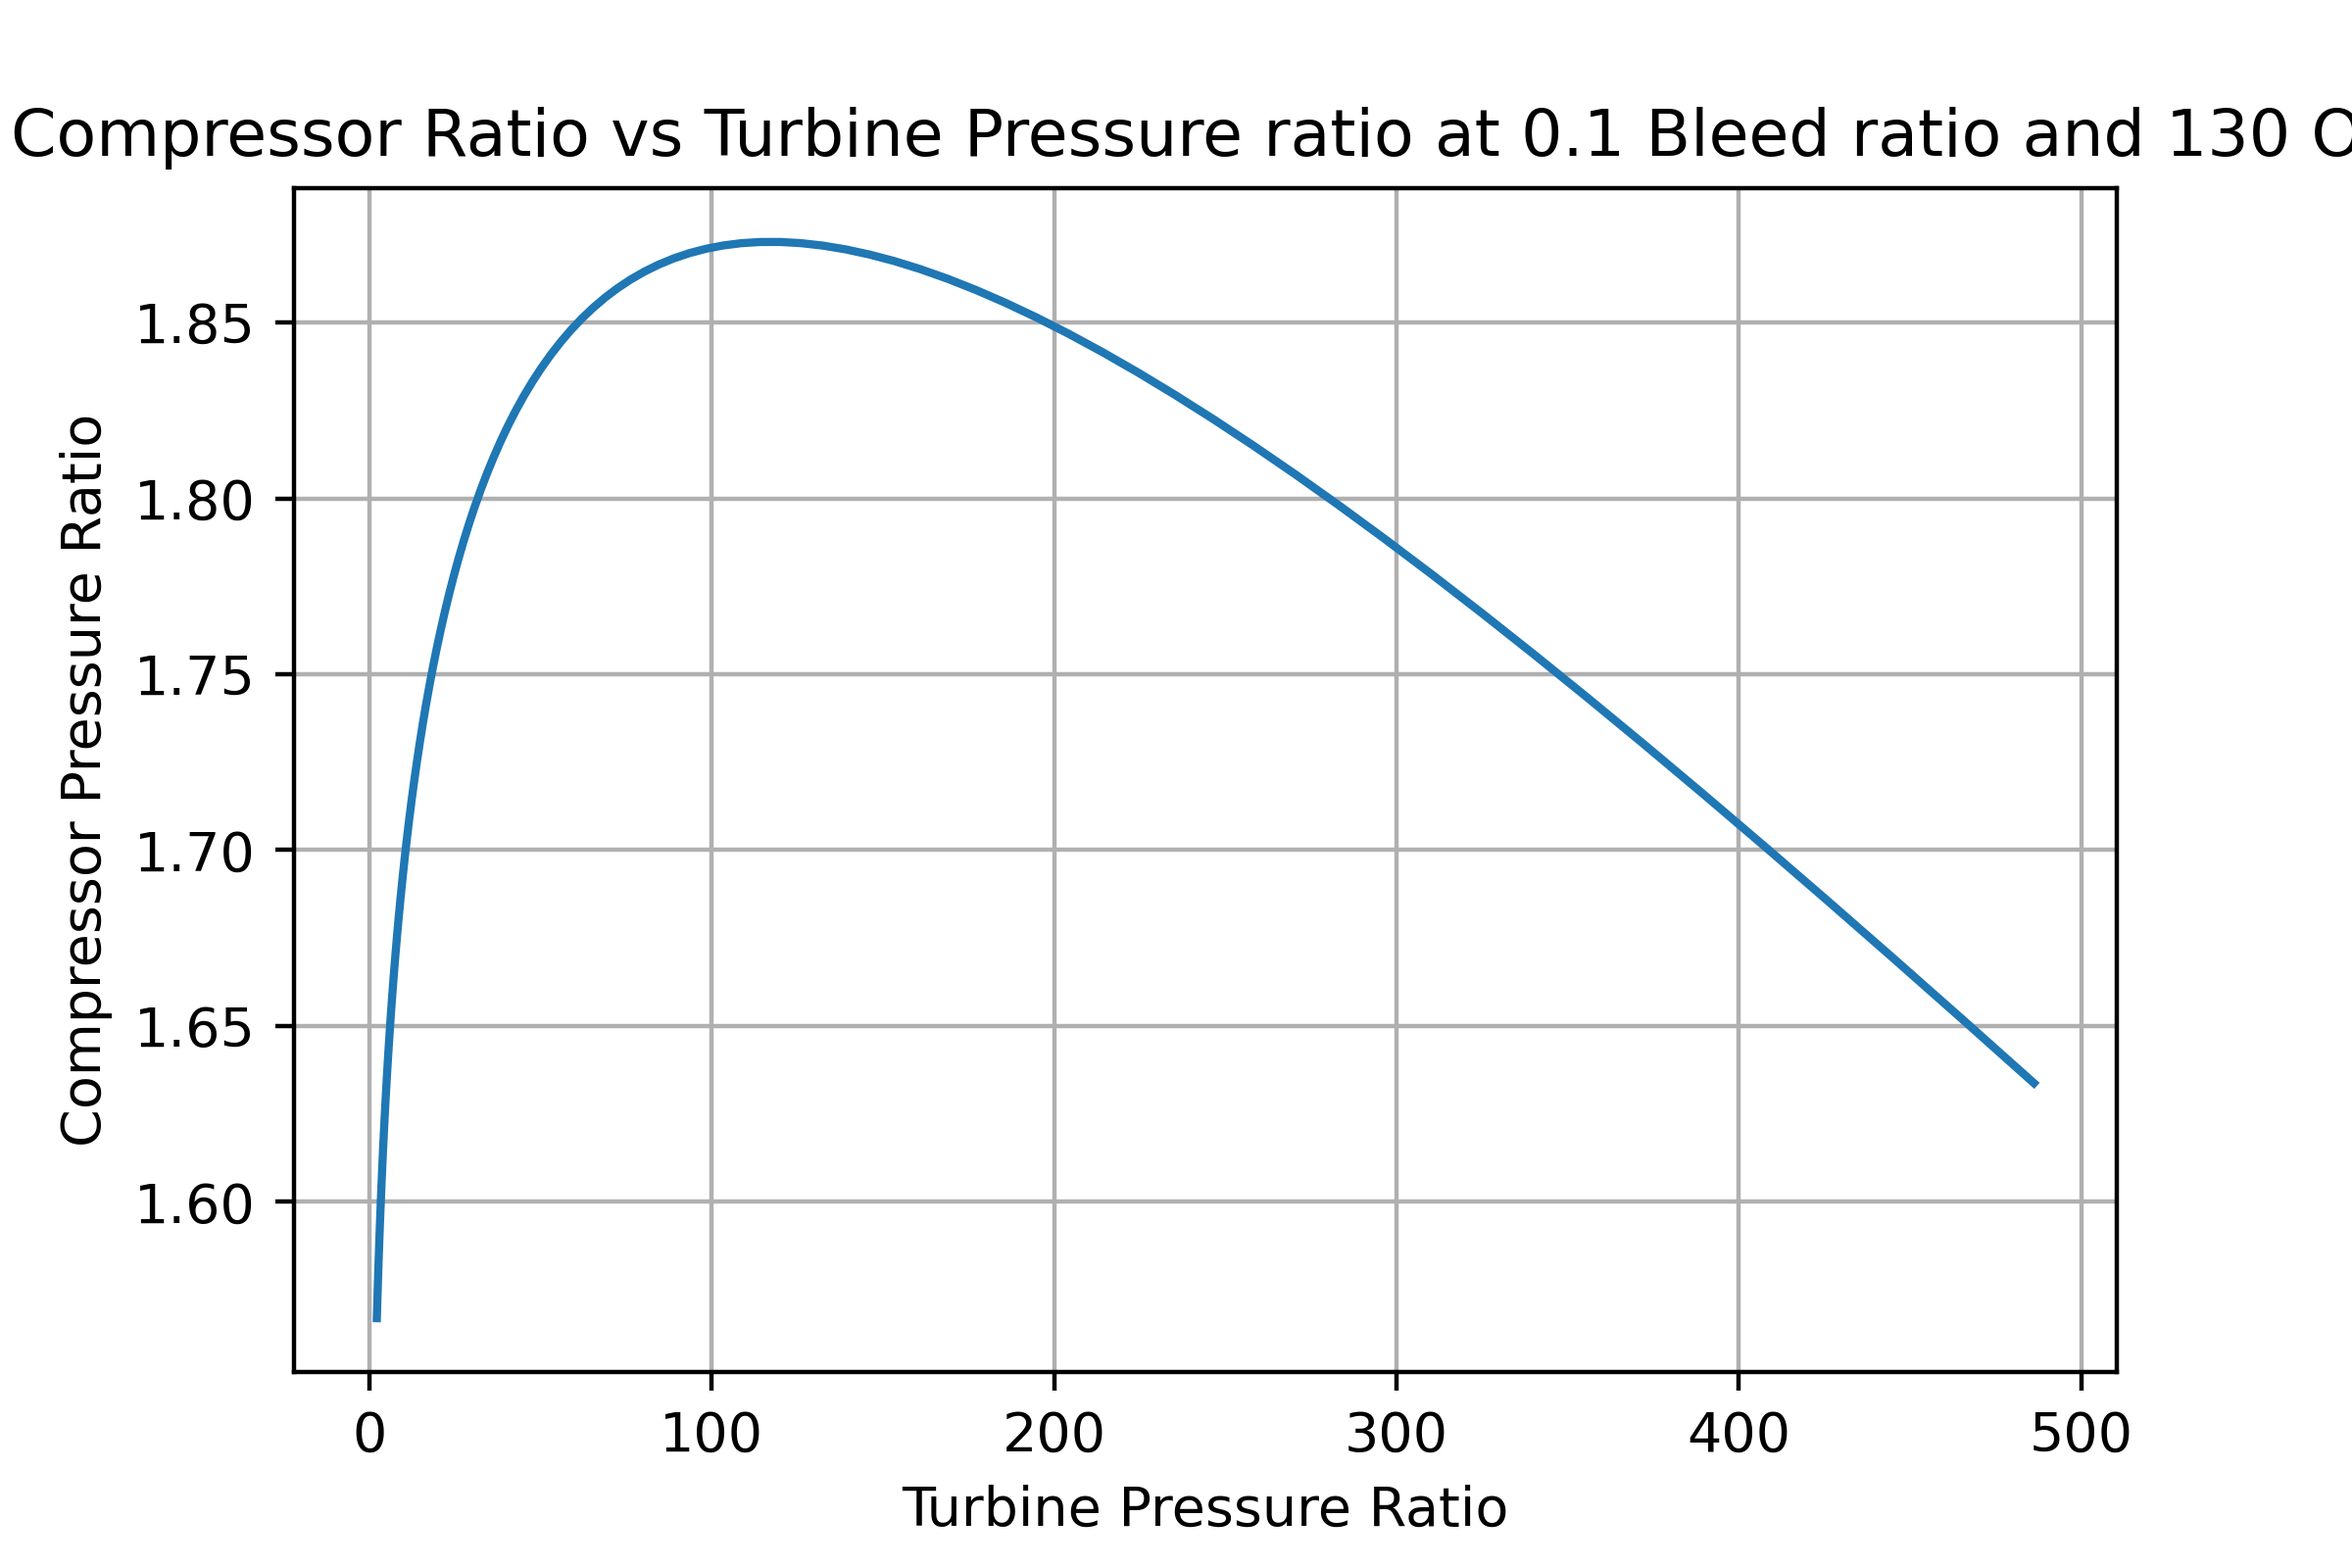
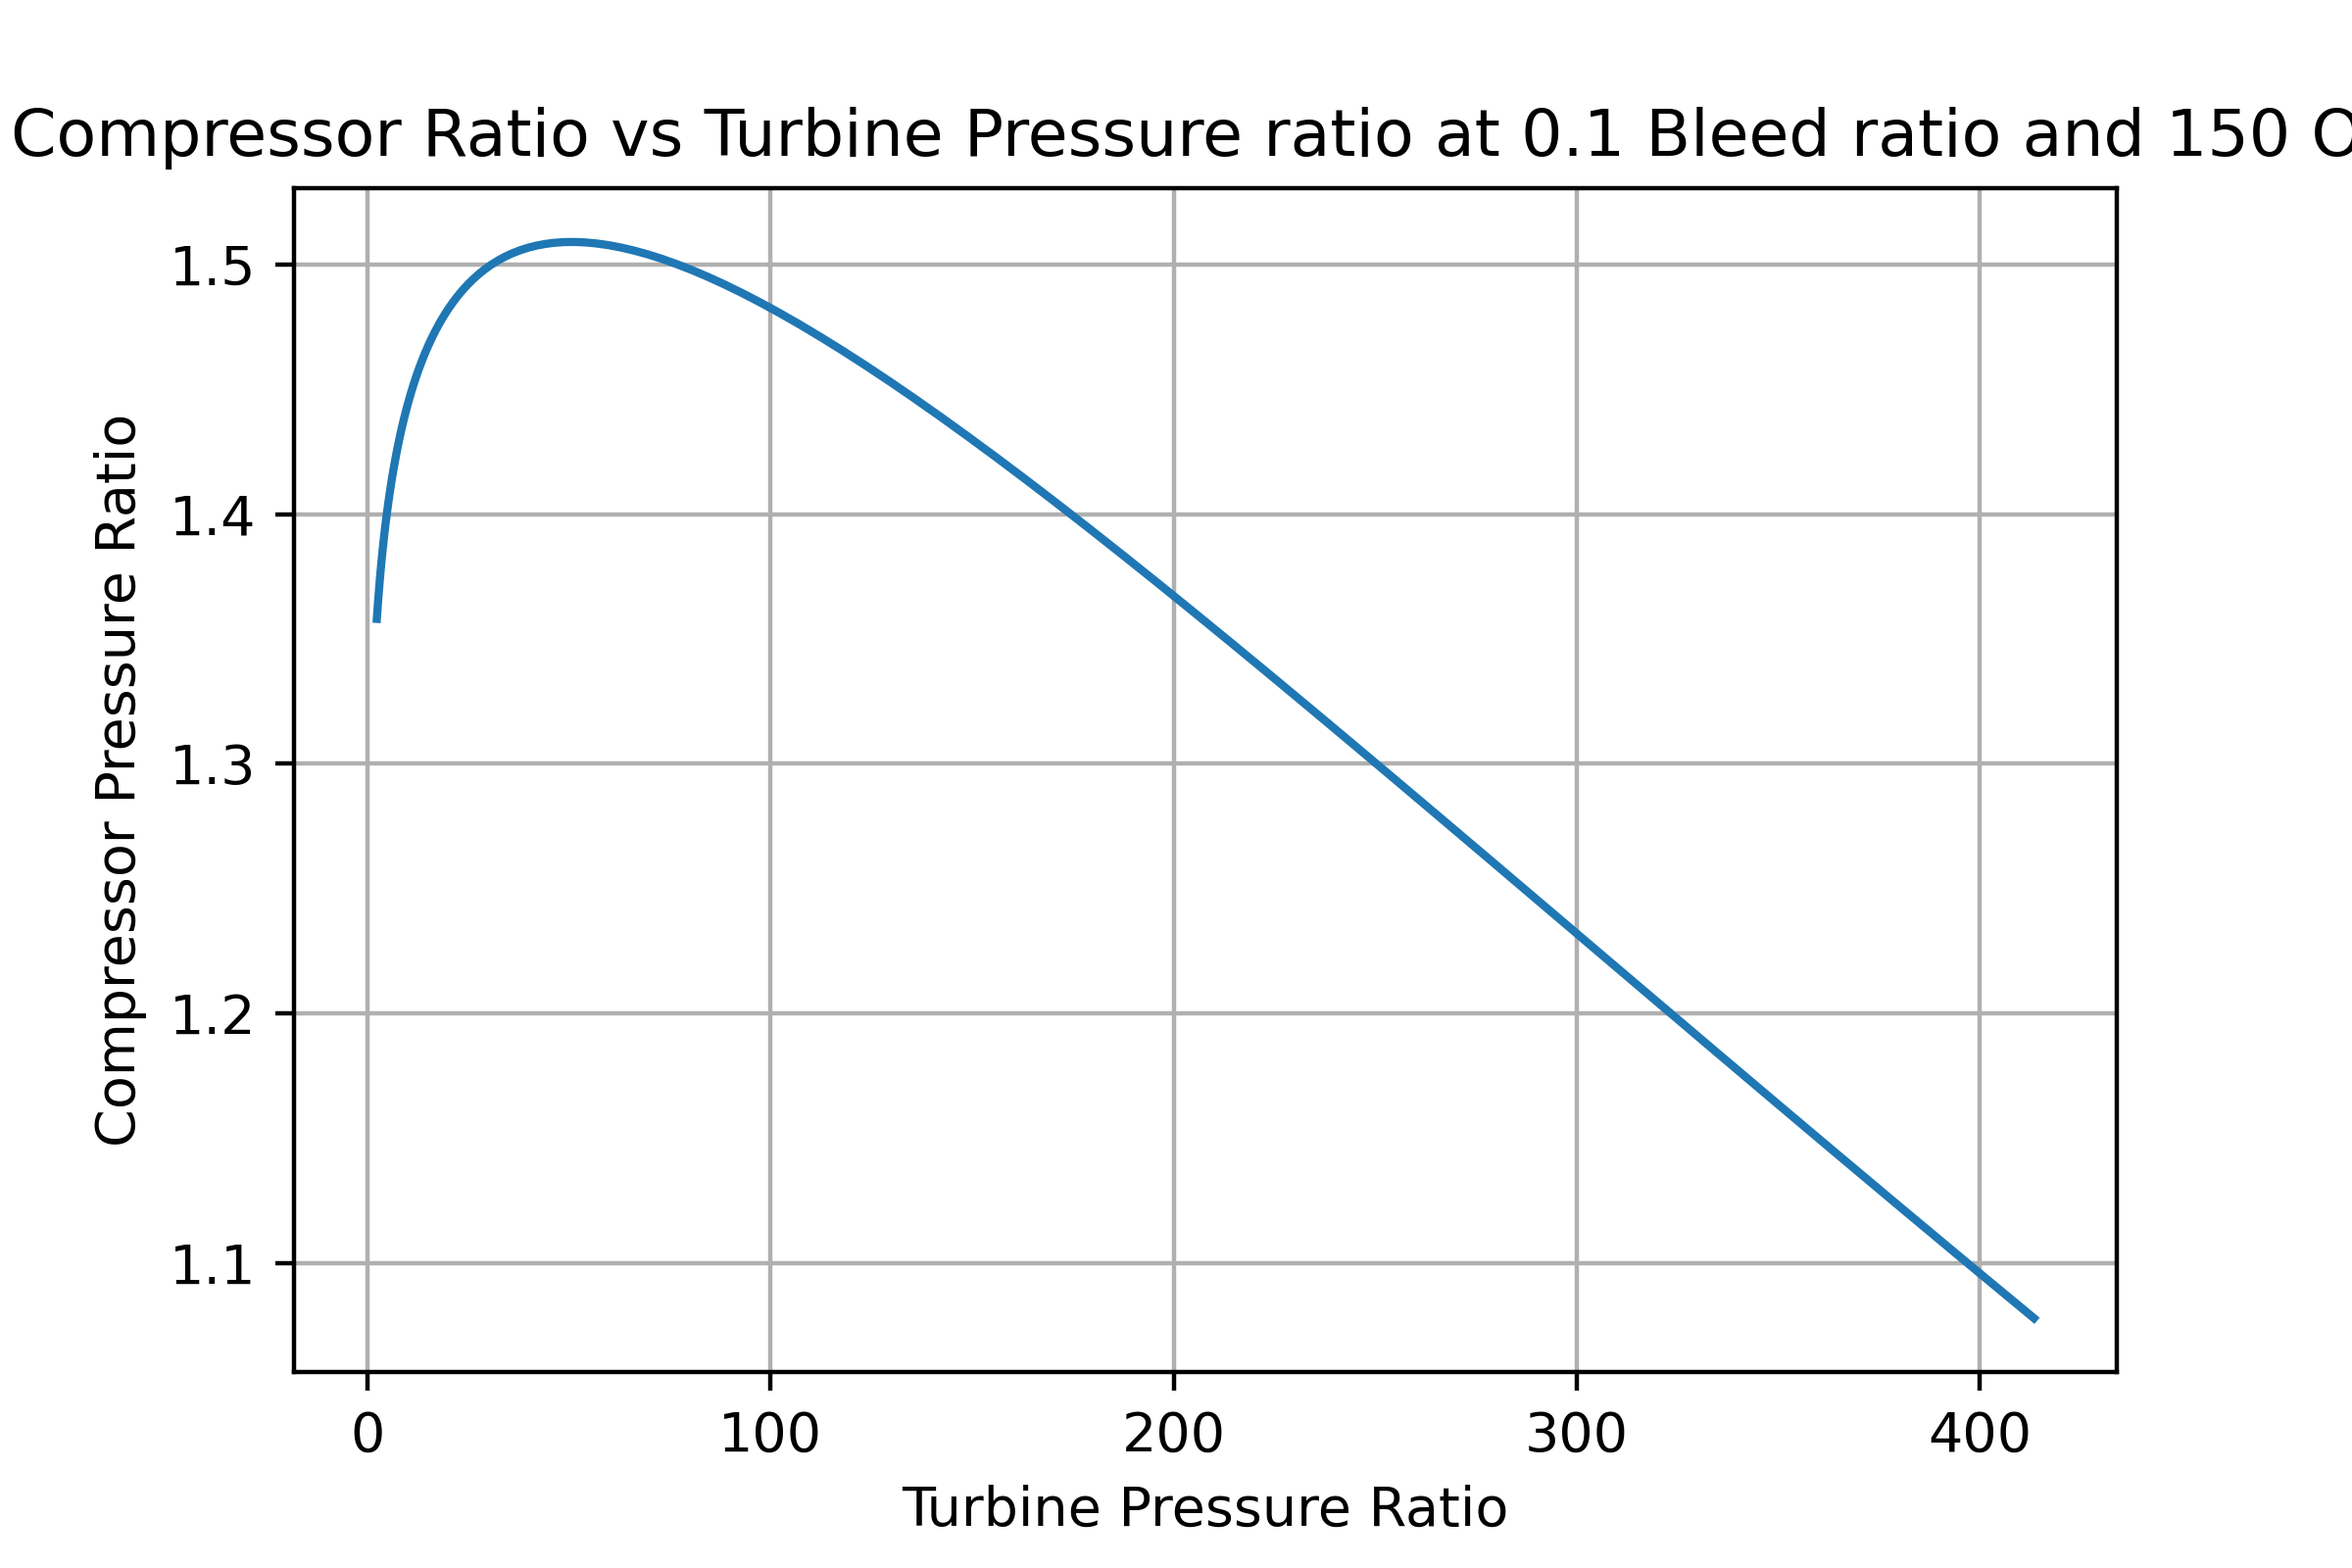
Mainly just number changes

diff --git a/Cycle_Analysis_2.py b/Cycle_Analysis_2.py
@@ -107,8 +107,8 @@ cp_100_coeff = cp_polyfit(100, 2, path_pentane)
 cp_50_K = cp_integrand(500, cp_100_coeff)
 
 "Calculating Pump Work"
-rho = 600 #at 300K, constant with pressure change up till critical pressure (33 bar) and then increases
-pmin = 150000 #Pa, needs to be around 150 kPa or more to ensure condensation at 320K
+rho = 565 #at 350K, constant with pressure change up till critical pressure (33 bar) and then increases
+pmin = 500000 #Pa, needs to be around 150 kPa or more to ensure condensation at 320K
 cooling_pressure_drop = 600000 #Pressure drop over fuel cooling channels
 heating_pressure_drop = 600000 #Pressure drop over fuel heating channels
 cp_air_coeff = cp_polyfit(100, 4, path_air) #air cp is ~constant with pressure changes
@@ -116,10 +116,10 @@ bleed_ratio = 0.1
 OF = 150
 
 "Calculating Turbine Work"
-Tmax_list = np.linspace(350, 500, 100) #K
+Tmax_list = np.linspace(375, 575, 100) #K
 turb_pr = []
 comp_pr = []
-Tmin = 320 #K
+Tmin = 349.65 #K, tmin for half way point for 298.15 atm temp, 120K temp diff and 576K chamber temp
 for Tmax in Tmax_list:
     turbine_specific_power = turbine_work(Tmin, Tmax, cp_100_coeff, True) 
     "Assuming cp only varies with tempurature across the turbine"
@@ -136,7 +136,7 @@ for Tmax in Tmax_list:
     "Calculating Compressor Work"
     
     compressor_specific_power = -(turbine_specific_power+pump_specific_power)/(OF*bleed_ratio)
-    print(compressor_specific_power)
+    print("Compressor Specific Power: ", compressor_specific_power, "kJ/kg/s")
     T_compressor = compressor_temp(T_ambiant, 500, cp_air_coeff, compressor_specific_power) 
     #print("Tempurature at end of compressor: ",T_compressor,"K")
     

diff --git a/Cycle_Analysis_10km.py b/Cycle_Analysis_10km.py
@@ -100,7 +100,7 @@ def pump_work(rho, pmin, pmax):
     return pump_specific_power
     
 
-p_ambiant = 0.262 #Pa
+p_ambiant = 26200 #Pa
 T_ambiant = 222.77 #K
 
 cp_100_coeff = cp_polyfit(100, 2, path_pentane)
@@ -109,21 +109,21 @@ cp_50_K = cp_integrand(500, cp_100_coeff)
 "Calculating Pump Work"
 rho = 620 #at 300K, constant with pressure change up till critical pressure (33 bar) and then increases
 pmin = 150000 #Pa, needs to be around 150 kPa or more to ensure condensation at 320K
-cooling_pressure_drop = 300000 #Pressure drop over fuel cooling channels
+cooling_pressure_drop = 600000 #Pressure drop over fuel cooling channels
 heating_pressure_drop = 600000 #Pressure drop over fuel heating channels
 cp_air_coeff = cp_polyfit(100, 4, path_air) #air cp is ~constant with pressure changes
-bleed_ratio = 0.1
-OF = 130
+bleed_ratio = 0.2
+OF = 150
 
 "Calculating Turbine Work"
-Tmax_list = np.linspace(320, 500, 100) #K
+Tmax_list = np.linspace(350, 500, 100) #K
 turb_pr = []
 comp_pr = []
 Tmin = 300 #K
 for Tmax in Tmax_list:
     turbine_specific_power = turbine_work(Tmin, Tmax, cp_100_coeff, True) 
-    "Assuming cp is only varies with tempurature across the turbine"
-    "Resonable assumption as long as there is no phase change"
+    "Assuming cp only varies with tempurature across the turbine"
+    "Resonable approximation as long as there is no phase change"
     turbine_pressure_ratio = T_to_P_ratio(Tmin, Tmax , 1.09)
     print("Turbine Pressure Ratio: ", turbine_pressure_ratio)
     turb_pr.append(turbine_pressure_ratio)
